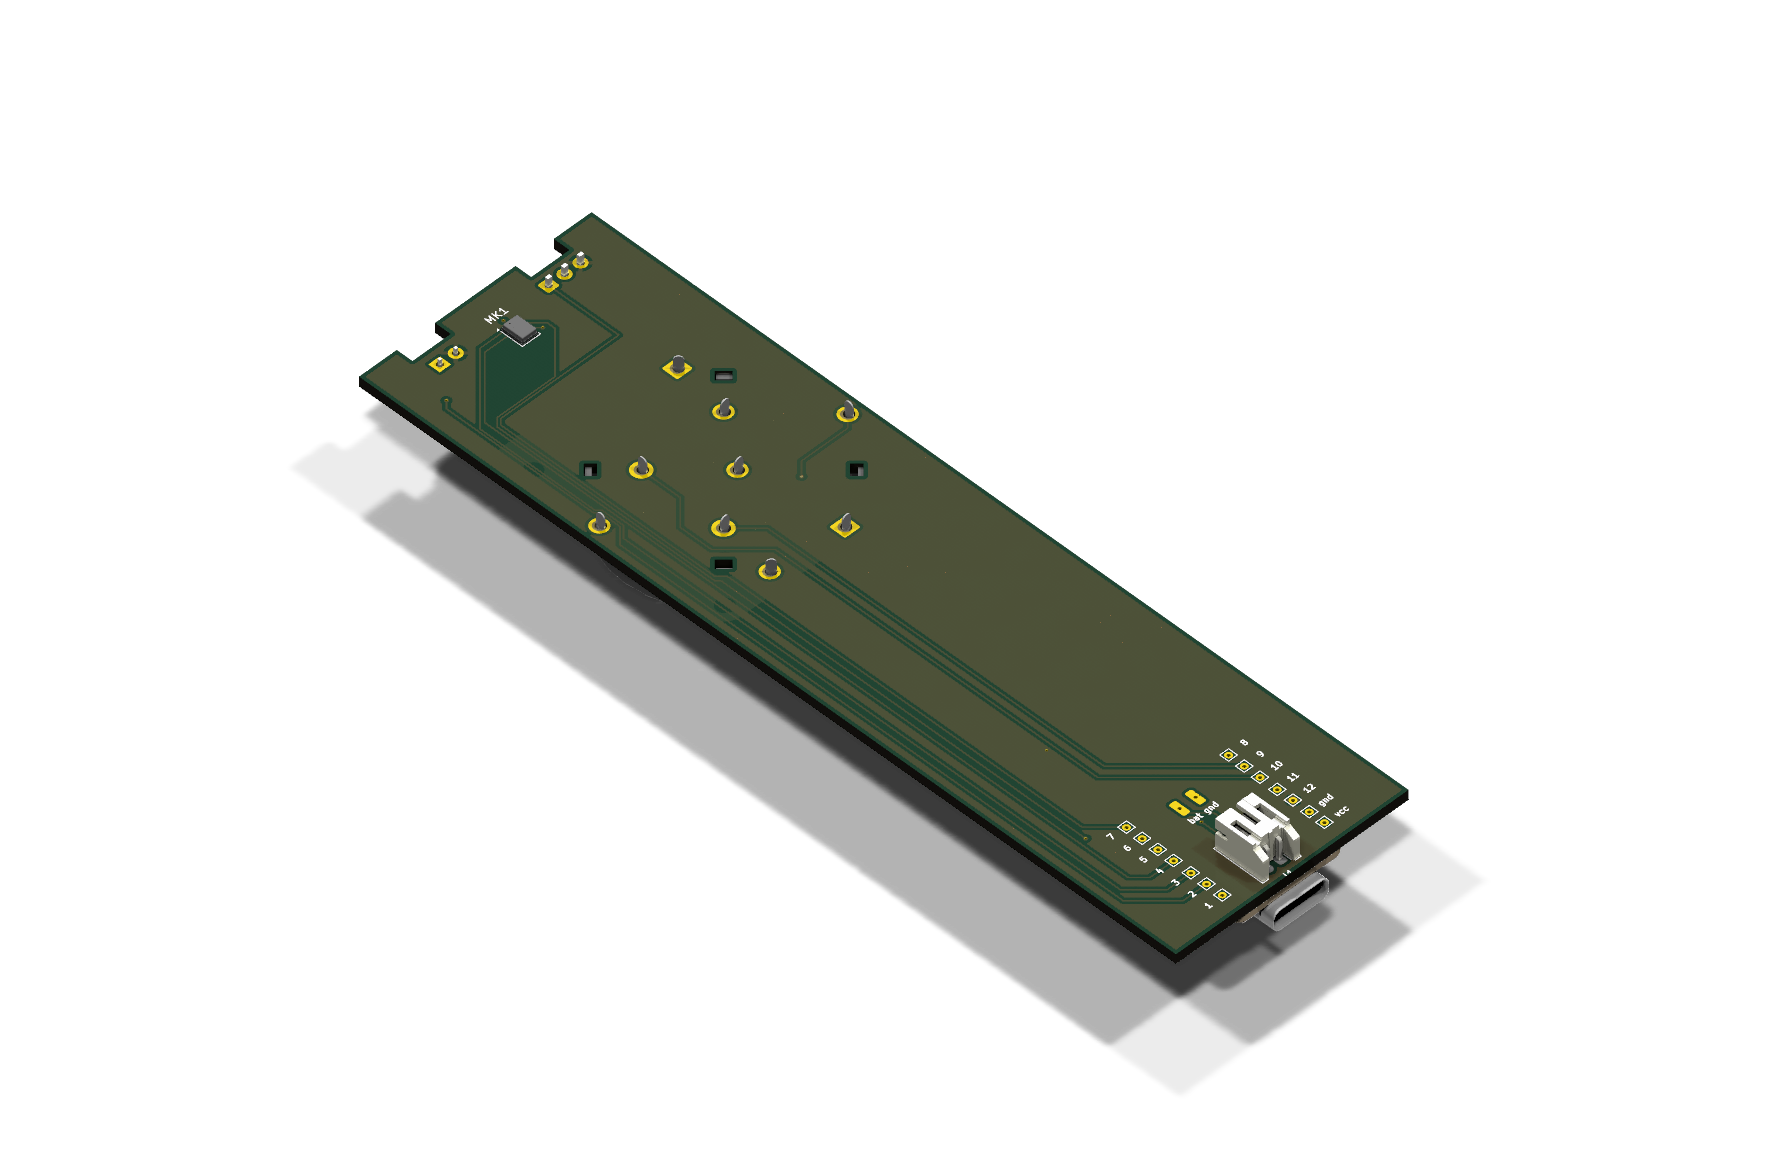
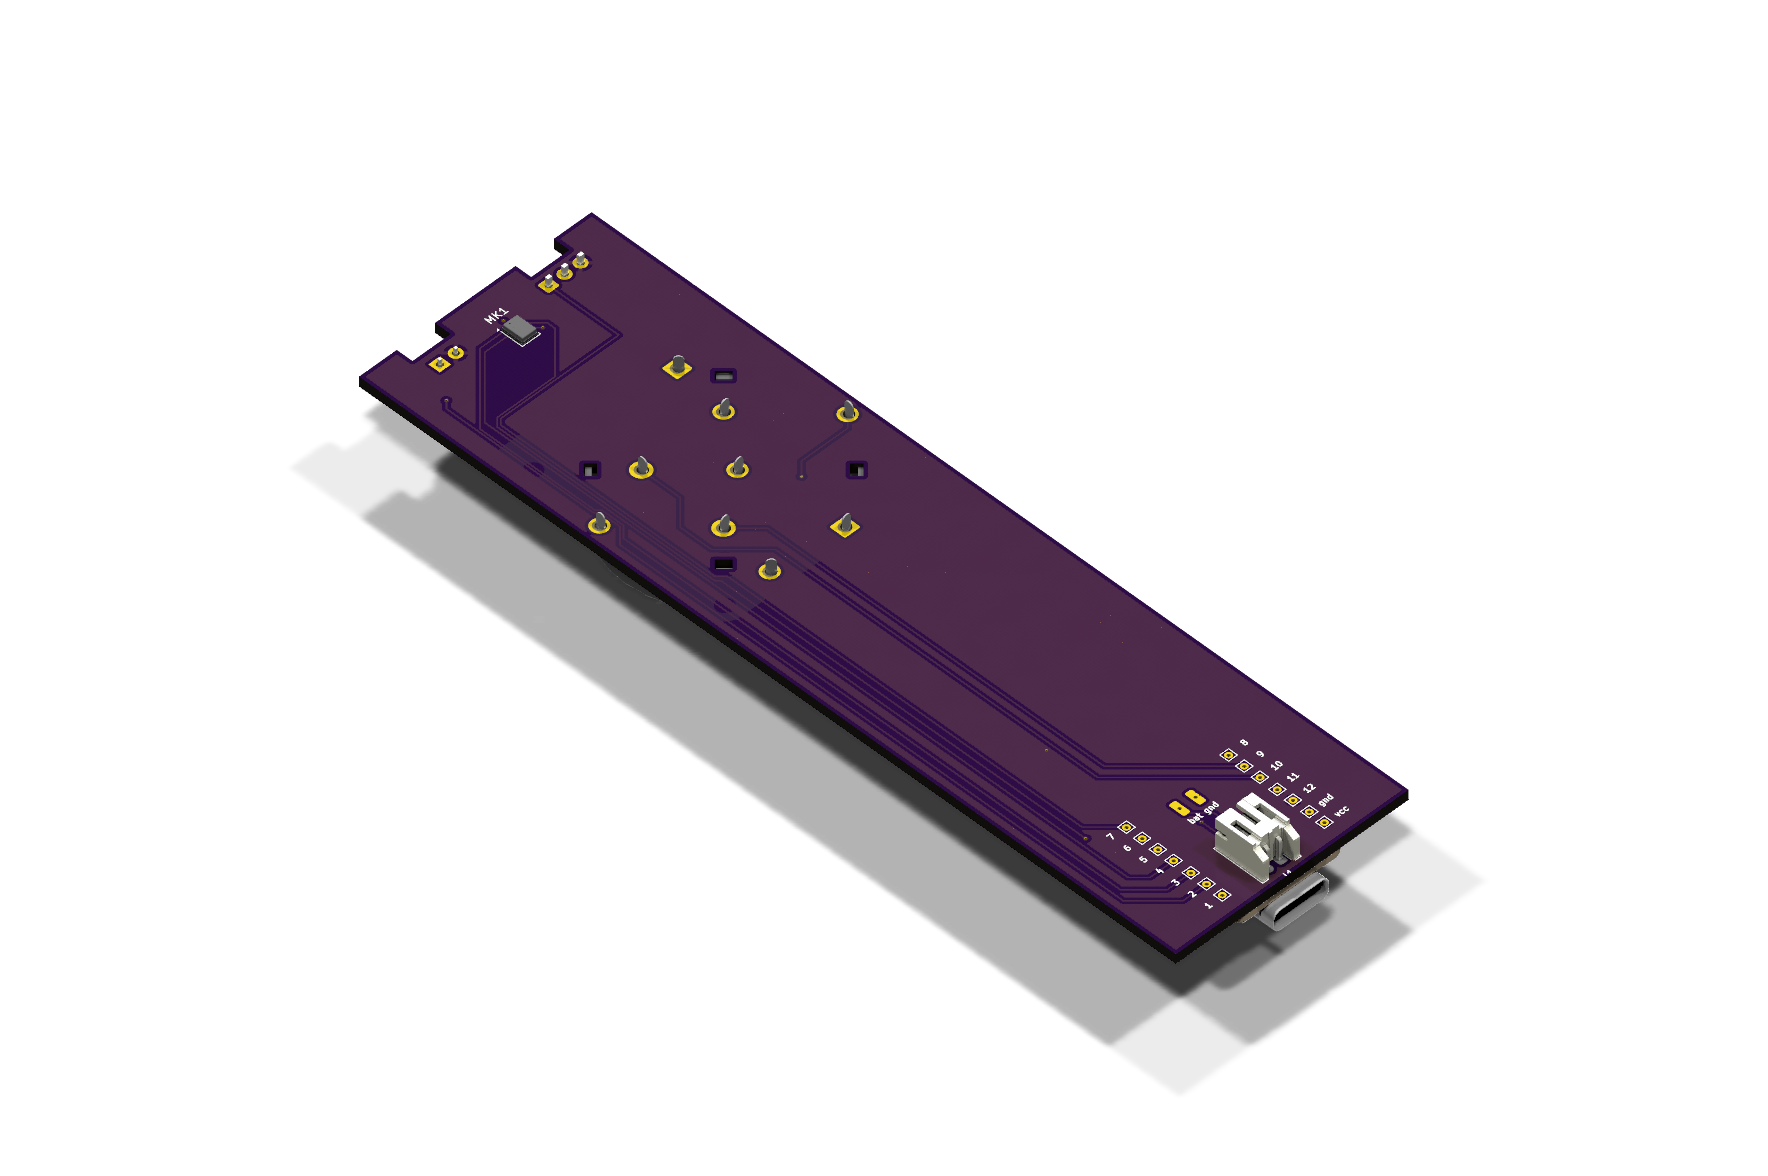
fix(readme): simplify schematic preview

Changed region(s): [[0.1867, 0.1837, 0.8088, 0.8265]]

diff --git a/README.md b/README.md
@@ -17,13 +17,7 @@ This repo is the hardware side of that project. The source of truth lives in `c6
 
 ## Schematic
 
-<table>
-  <tr>
-    <td bgcolor="#ffffff">
-      <img src="docs/readme-assets/schematic.svg" alt="Current schematic preview" />
-    </td>
-  </tr>
-</table>
+![Current schematic preview](docs/readme-assets/schematic.svg)
 
 ## What this remote is meant to do
 